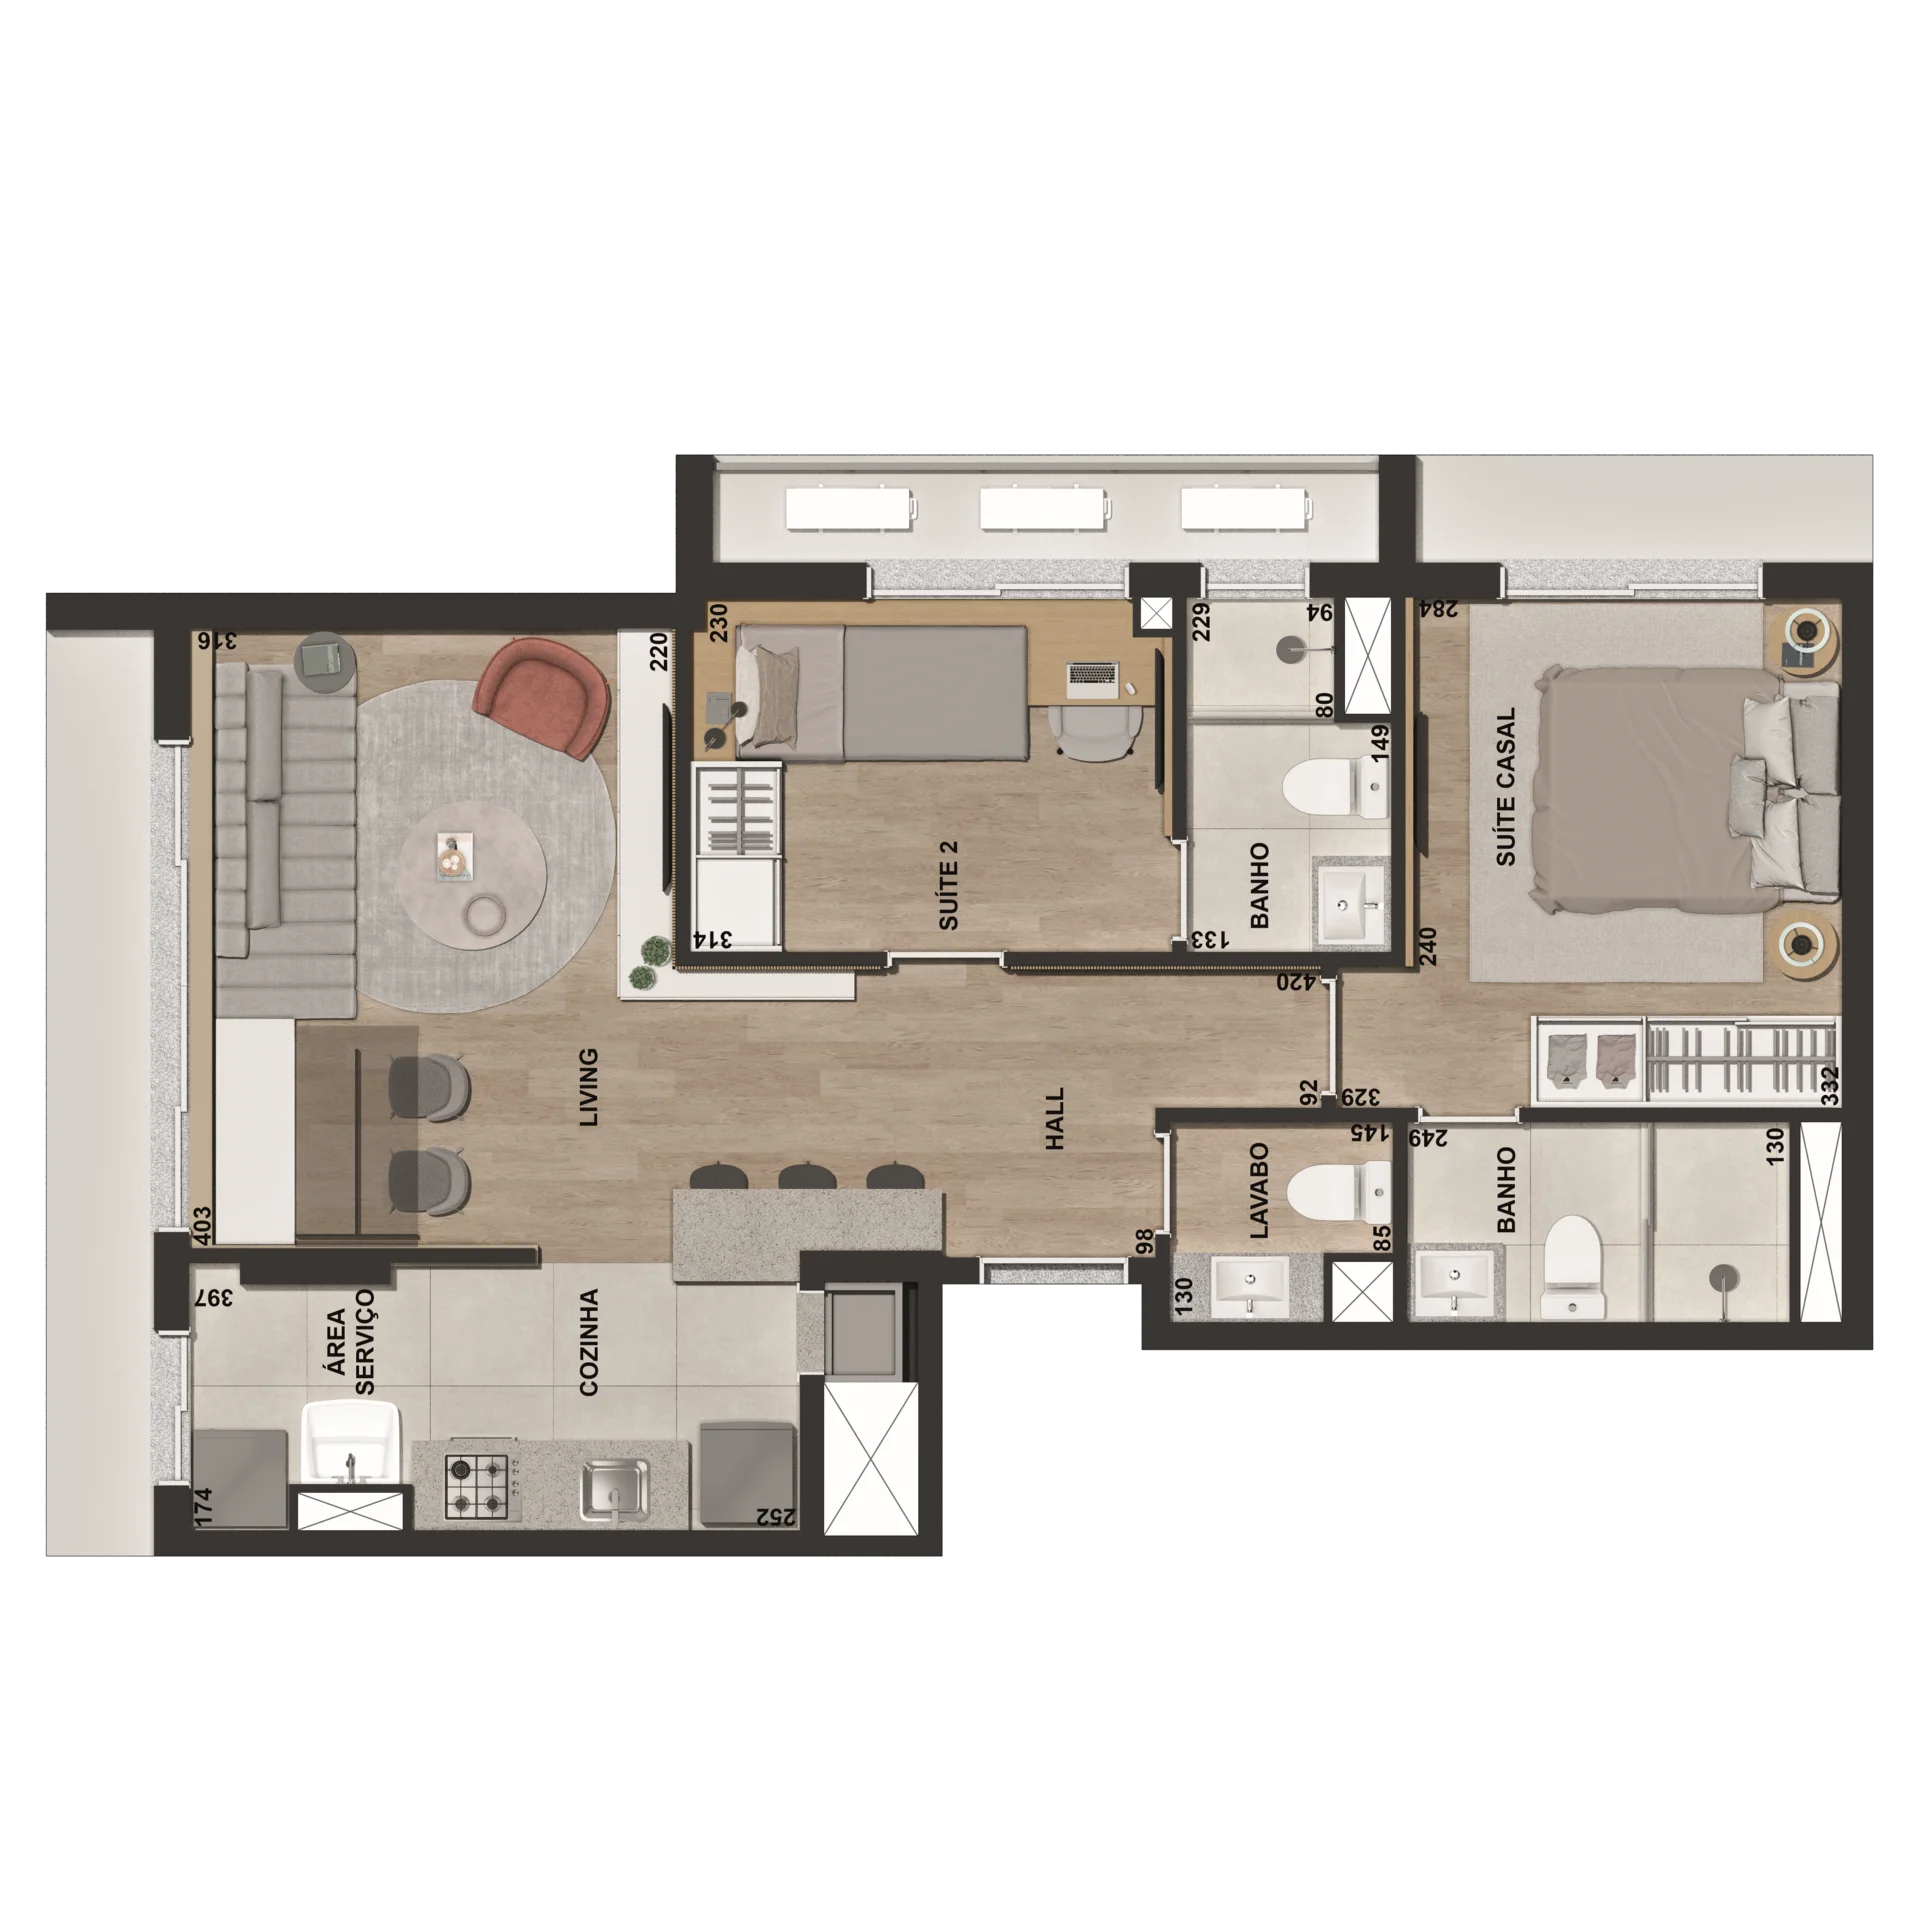
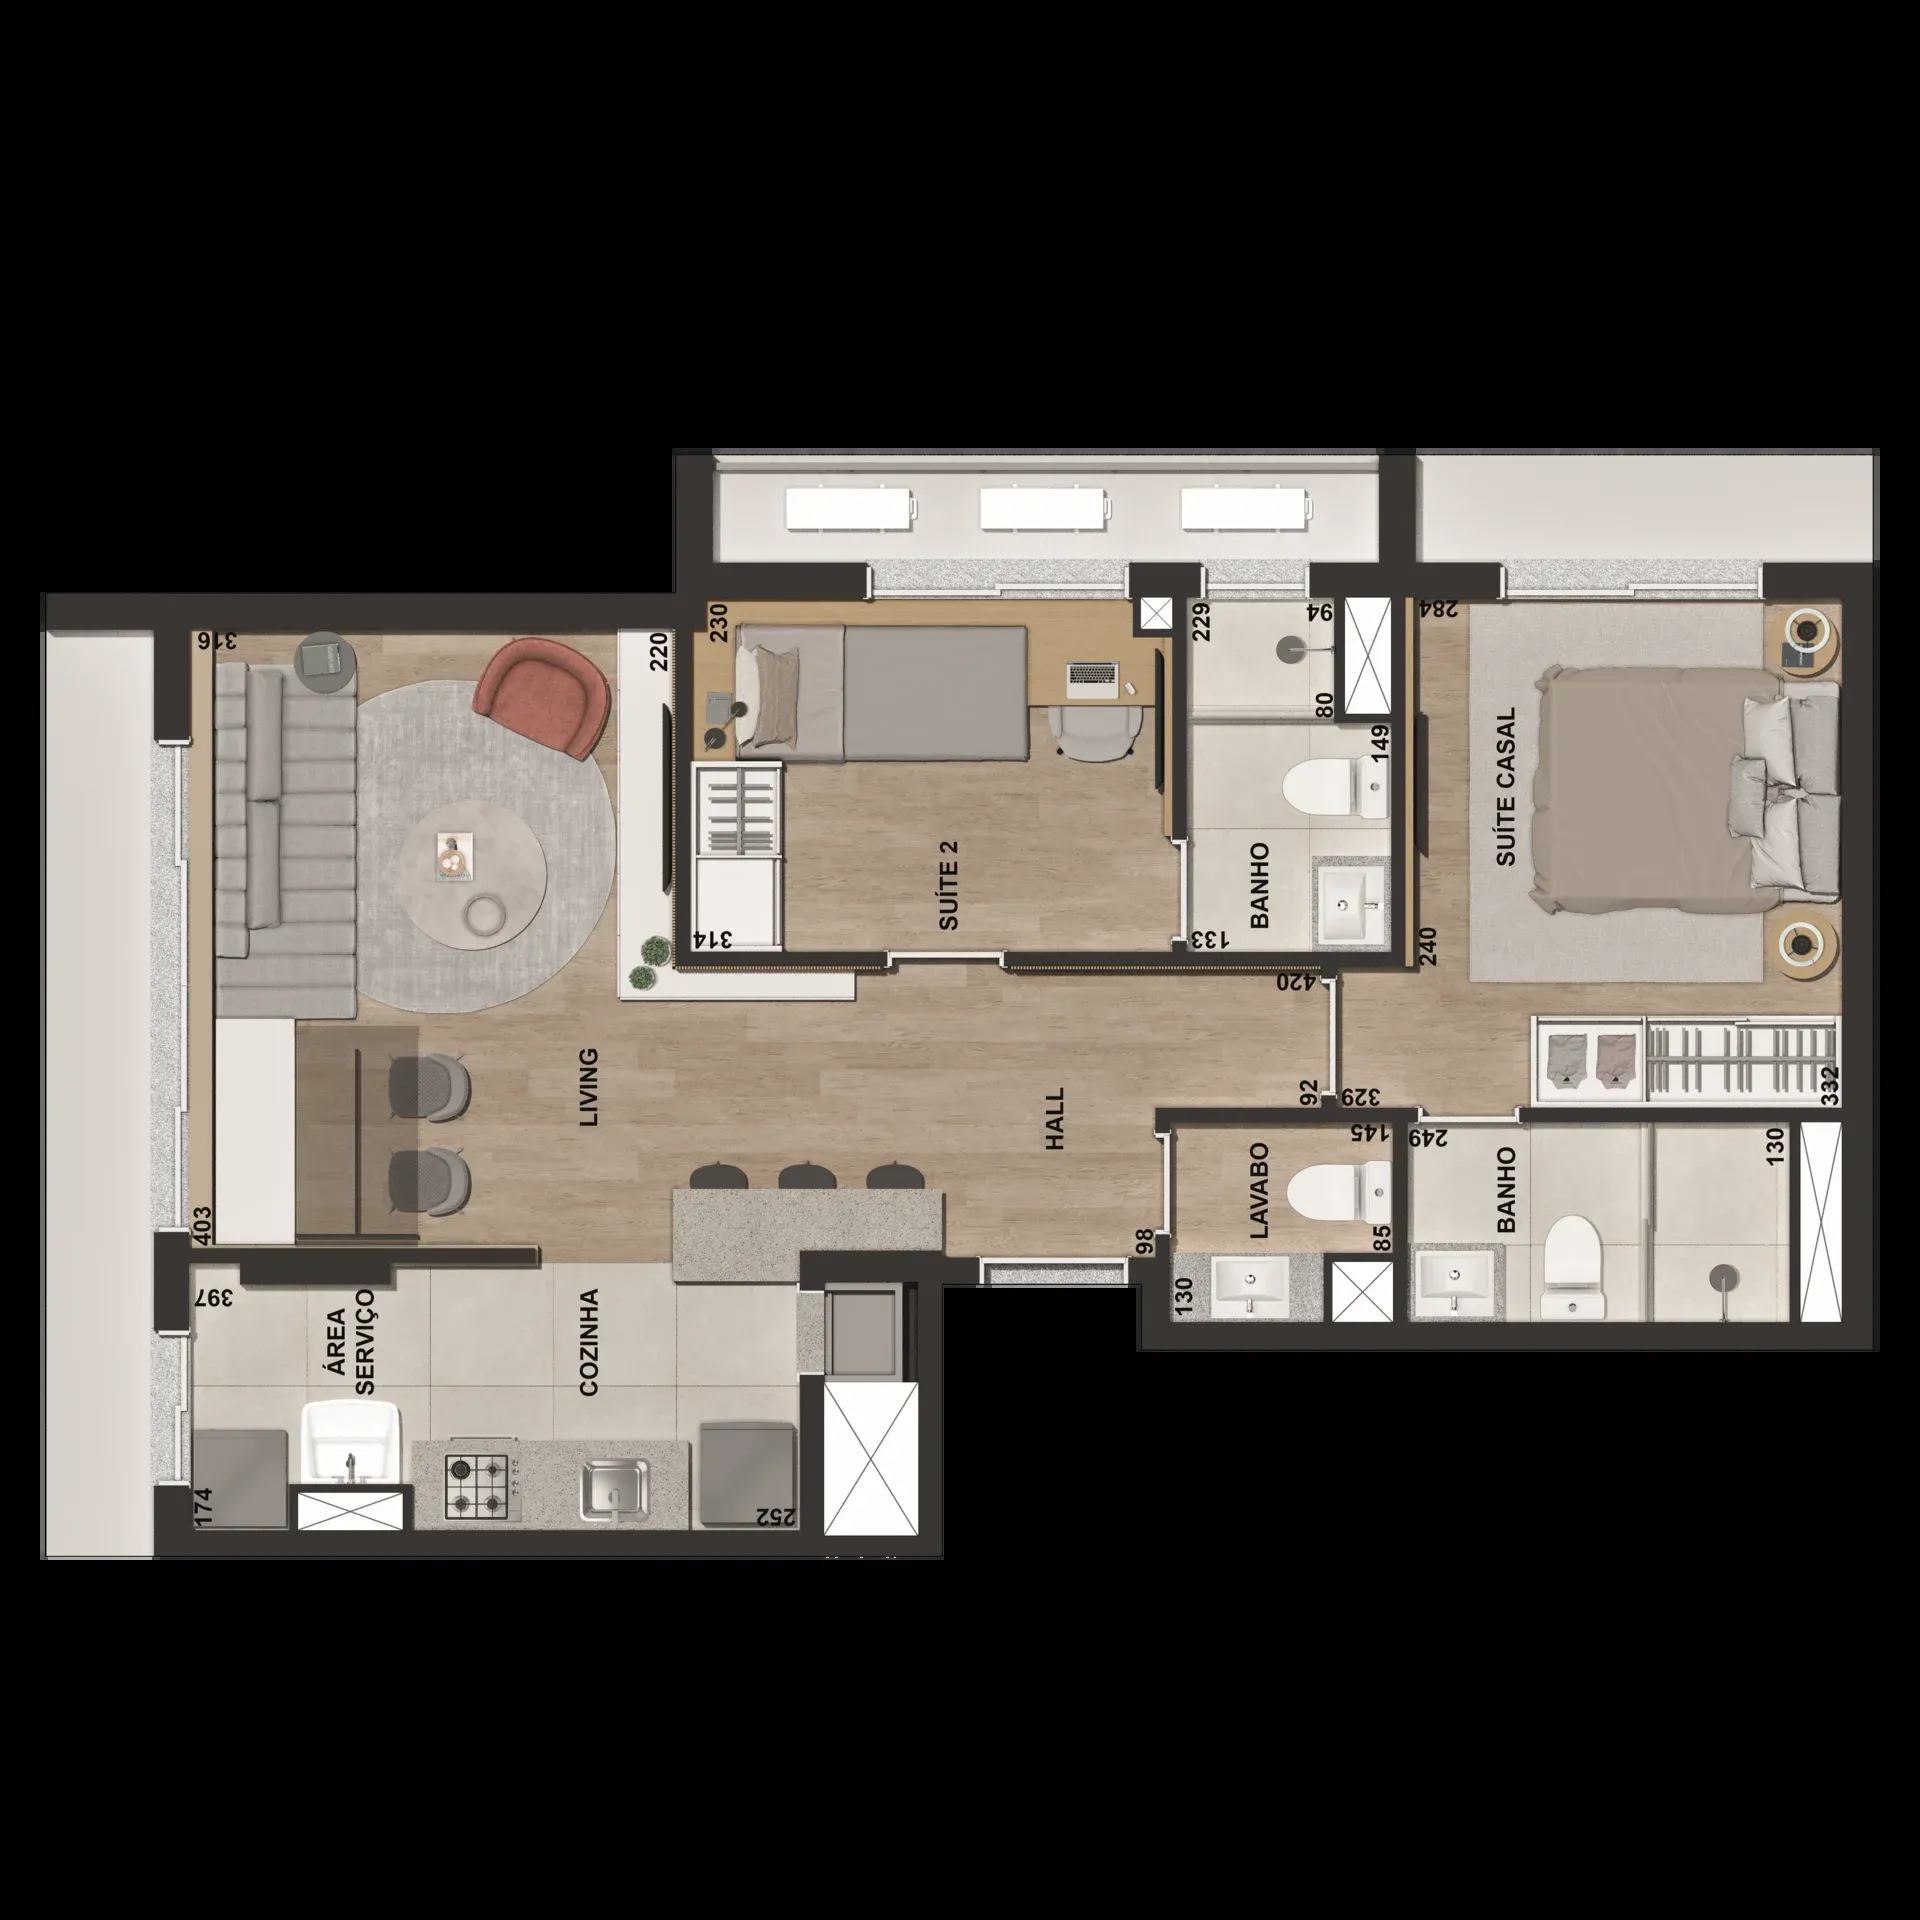
fix(mood): substituir imagem com erro de 2 Suítes por mood_65m2.png e adicionar planta de 1 Suíte - 55m²

diff --git a/src/components/mood/home-page-client.tsx b/src/components/mood/home-page-client.tsx
@@ -61,9 +61,10 @@ const plantCategories = [
     label: 'Plantas',
     images: [
       { src: '/MOOD/plantas/IMG_9733.webp', alt: 'Implantação' },
-      { src: '/MOOD/plantas/IMG_9734.webp', alt: '1D - 41m²' },
-      { src: '/MOOD/plantas/IMG_9735.webp', alt: '2 Suítes - 65m²' },
       { src: '/MOOD/plantas/IMG_9736.webp', alt: 'Stúdio - 29m²' },
+      { src: '/MOOD/plantas/IMG_9734.webp', alt: '1D - 41m²' },
+      { src: '/MOOD/plantas/IMG_9735.webp', alt: '1 Suíte - 55m²' },
+      { src: '/MOOD/plantas/mood_65m2.png', alt: '2 Suítes - 65m²' },
     ],
   },
 ];